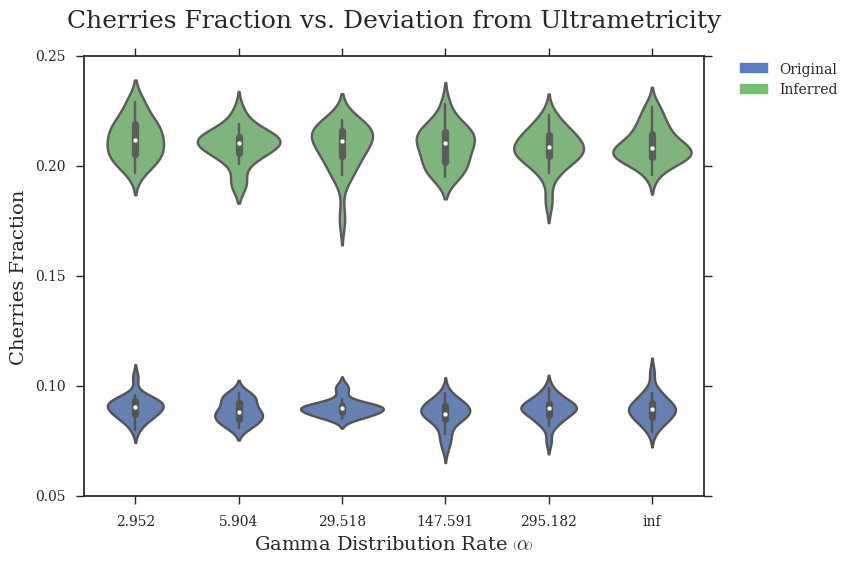
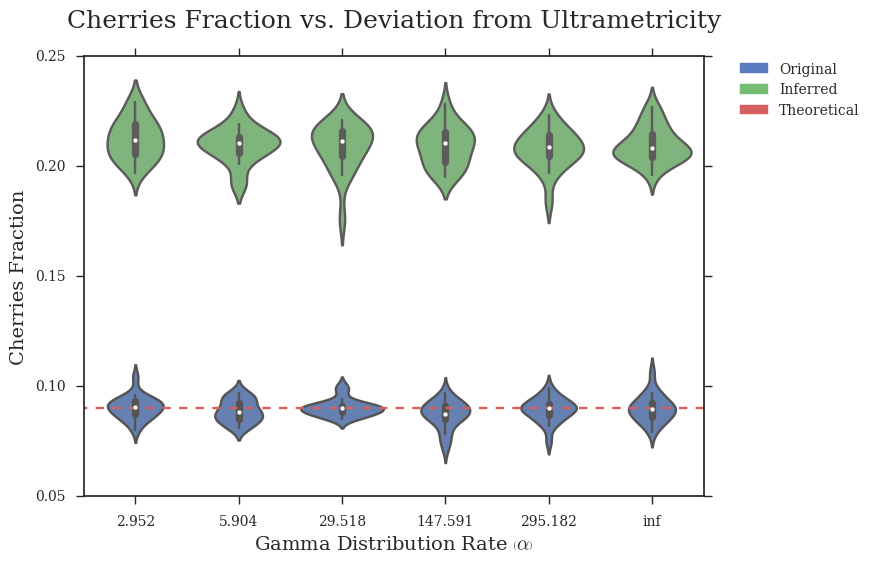
Added theoretical line

diff --git a/figures/scripts/1_cherries-vs-params.py b/figures/scripts/1_cherries-vs-params.py
@@ -146,13 +146,15 @@ fig.savefig('cherries-fraction_vs_r_const-lambda.png', bbox_extra_artists=(legen
 plt.close()
 
 # plot cherries fraction vs. lambda
-handles = [Patch(color='#597DBE',label='Original'),Patch(color='#76BF72',label='Inferred')]
+handles = [Patch(color='#597DBE',label='Original'),Patch(color='#76BF72',label='Inferred'),Patch(color='#D65F5F',label='Theoretical')]
 fig = plt.figure()
 x = np.array([33.866,84.664,169.328,338.655,846.638])
 #ax = sns.boxplot(x='lambda',y='cherries',data=pd.DataFrame(l_original),order=x,color='#597DBE')
 ax = sns.violinplot(x='lambda',y='cherries',data=pd.DataFrame(l_original),order=x,color='#597DBE')
 #sns.boxplot(x='lambda',y='cherries',data=pd.DataFrame(l_inferred),order=x,color='#76BF72')
 sns.violinplot(x='lambda',y='cherries',data=pd.DataFrame(l_inferred),order=x,color='#76BF72')
+x = np.linspace(-100,1000,1100)
+plt.plot(x,np.array([cherries_vs_r(0.01)]*len(x)),label='Theoretical',linestyle='--',color='#D65F5F')
 legend = plt.legend(handles=handles,bbox_to_anchor=(1.05, 1), loc=2, borderaxespad=0.)
 sns.plt.xlabel(r'$\lambda = \lambda_A + \lambda_B$',fontsize=14)
 sns.plt.ylabel('Cherries Fraction',fontsize=14)
@@ -162,13 +164,15 @@ fig.savefig('cherries-fraction_vs_lambda.png', bbox_extra_artists=(legend,), bbo
 plt.close()
 
 # plot cherries fraction vs. length
-handles = [Patch(color='#597DBE',label='Original'),Patch(color='#76BF72',label='Inferred')]
+handles = [Patch(color='#597DBE',label='Original'),Patch(color='#76BF72',label='Inferred'),Patch(color='#D65F5F',label='Theoretical')]
 fig = plt.figure()
 x = np.array([50,100,200,300,600,1200,2400,4800])
 #ax = sns.boxplot(x='length',y='cherries',data=pd.DataFrame(k_original),order=x,color='#597DBE')
 ax = sns.violinplot(x='length',y='cherries',data=pd.DataFrame(k_original),order=x,color='#597DBE')
 #sns.boxplot(x='length',y='cherries',data=pd.DataFrame(k_inferred),order=x,color='#76BF72')
 sns.violinplot(x='length',y='cherries',data=pd.DataFrame(k_inferred),order=x,color='#76BF72')
+x = np.linspace(-100,5000,5100)
+plt.plot(x,np.array([cherries_vs_r(0.01)]*len(x)),label='Theoretical',linestyle='--',color='#D65F5F')
 legend = plt.legend(handles=handles,bbox_to_anchor=(1.05, 1), loc=2, borderaxespad=0.)
 sns.plt.xlabel('Sequence Length',fontsize=14)
 sns.plt.ylabel('Cherries Fraction',fontsize=14)
@@ -178,13 +182,15 @@ fig.savefig('cherries-fraction_vs_length.png', bbox_extra_artists=(legend,), bbo
 plt.close()
 
 # plot cherries fraction vs. gamma rate
-handles = [Patch(color='#597DBE',label='Original'),Patch(color='#76BF72',label='Inferred')]
+handles = [Patch(color='#597DBE',label='Original'),Patch(color='#76BF72',label='Inferred'),Patch(color='#D65F5F',label='Theoretical')]
 fig = plt.figure()
 x = np.array([2.952,5.904,29.518,147.591,295.182,float('inf')])
 #ax = sns.boxplot(x='gammarate',y='cherries',data=pd.DataFrame(g_original),order=x,color='#597DBE')
 ax = sns.violinplot(x='gammarate',y='cherries',data=pd.DataFrame(g_original),order=x,color='#597DBE')
 #sns.boxplot(x='gammarate',y='cherries',data=pd.DataFrame(g_inferred),order=x,color='#76BF72')
 sns.violinplot(x='gammarate',y='cherries',data=pd.DataFrame(g_inferred),order=x,color='#76BF72')
+x = np.linspace(-100,1000,5000)
+plt.plot(x,np.array([cherries_vs_r(0.01)]*len(x)),label='Theoretical',linestyle='--',color='#D65F5F')
 legend = plt.legend(handles=handles,bbox_to_anchor=(1.05, 1), loc=2, borderaxespad=0.)
 sns.plt.xlabel(r'Gamma Distribution Rate $\left(\alpha\right)$',fontsize=14)
 sns.plt.ylabel('Cherries Fraction',fontsize=14)
